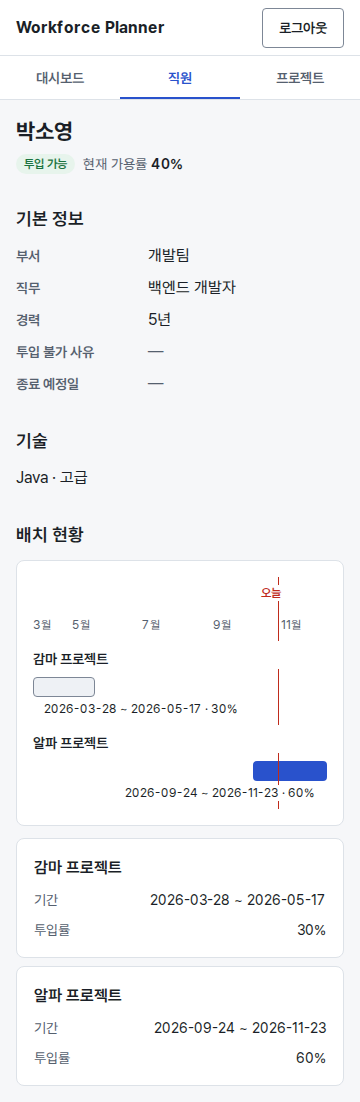
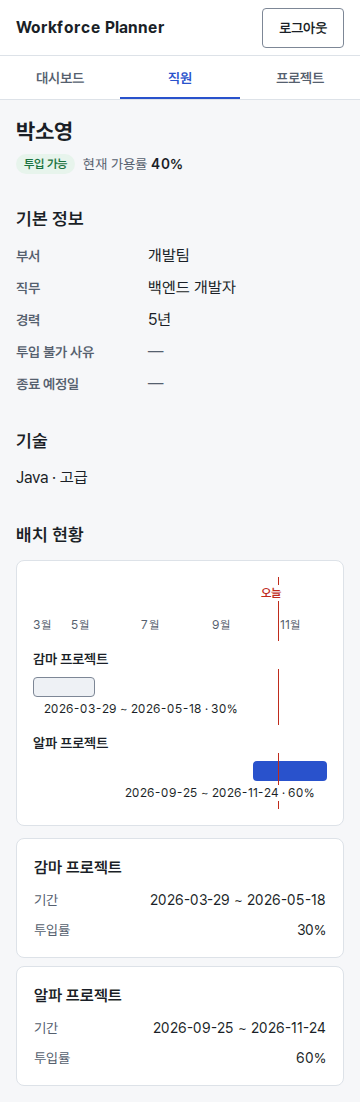
docs(T#19): evidence

diff --git a/docs/evidence/T19.md b/docs/evidence/T19.md
@@ -1,7 +1,7 @@
 # T#19 증거 — §10 시연 흐름 E2E 검증
 
-- snapshot: `d17c506f20811dfdbf6ef67da430c5700cb36367` (`t19`: 구현 커밋 `1d373f6` + `origin/main` `f29b7ab` 병합, 충돌 없음)
-- base: `f29b7abbe60c6d6b34b33693580a35deab4bf6f2` (`origin/main`, T#32 병합 뒤)
+- snapshot: `dc004d1720d55cfa11158f941aa7839276755331` (`t19`: 리뷰 REVISE 1의 수정 커밋 `dc004d1`, 그 앞에 `origin/main` `ee1500b` 병합 `b5c12b6`)
+- base: `ee1500bd43b183a896ec25132af0e688692ca7b1` (`origin/main`)
 - implemented by: Claude Code, claude-opus-5-5
 - 환경: Ubuntu 26.04 LTS (WSL2, Linux 6.18.33.2-microsoft-standard-WSL2), Node 24.21.0(nvm, `.nvmrc`), npm 11.19.0, OpenJDK
   21.0.12.1, Maven 3.10.0(`backend/mvnw`), perl 5.40.1, Playwright 1.64.0. kit: 8a06acc6982d
@@ -12,8 +12,12 @@
 계약서는 `origin/main` `5645d02`를 읽고 썼고, 레드도 그 위(`51bfc8a` = `5645d02` + 계약 커밋)에서 기록했다. 구현 커밋 `1d373f6` 뒤
 `main`에 T#32(`f29b7ab`, 프로젝트 목록의 `인력 부족` 열)가 들어와, `origin/main`을 `t19`에 병합했다(`d17c506`, 충돌 없음,
 `git show --cc d17c506`의 조정 diff 없음). T#32의 열은 목록 맨 끝에 붙어 흐름이 읽는 `배치 인원`(다섯째 칸)은 그대로이고, 흐름이 지나는
-다른 화면은 바뀌지 않았다. 그래서 새 base `f29b7ab`의 베이스라인을 다시 재고(아래), 그린은 모두 병합 뒤 `d17c506`에서 돌렸다.
-`git diff origin/main HEAD`는 계약이 정한 7파일뿐이다(`Makefile`, `README.md`, `docs/contracts/T19.md`,
+다른 화면은 바뀌지 않았다. 그래서 새 base `f29b7ab`의 베이스라인을 다시 쟀다(아래).
+
+리뷰(REVISE, reviewed `168c6cc`) 뒤 `main`에 `ee1500b`(`docs/requirements/REQUEST.md` 한 줄, #44)가 들어와 다시 병합했다(`b5c12b6`,
+충돌 없음). `git diff --stat f29b7ab ee1500b`는 `docs/requirements/REQUEST.md` 하나뿐이라 코드·검사·빌드가 같으므로 `f29b7ab`의
+베이스라인을 그대로 쓴다. 그린은 모두 수정 커밋 `dc004d1`에서 돌렸다. `git diff origin/main HEAD`는 계약이 정한 7파일과 이 태스크의
+문서(`docs/evidence/T19.md`, `docs/reviews/T19.md`, `docs/screens/T19/`)뿐이다(`Makefile`, `README.md`, `docs/contracts/T19.md`,
 `frontend/e2e/flow/demo-flow.spec.ts`, `frontend/e2e/screens/T19.spec.ts`, `frontend/package.json`, `frontend/playwright.config.ts`).
 
 ## 베이스라인 (작업 전, `t19` = `51bfc8a` = `origin/main` `5645d02` + 계약 커밋)
@@ -96,13 +100,34 @@ T#32가 더한 것: `e2e` +5개·+1파일(`projects-understaffed.spec.ts`), `e2e
   3 passed (8.4s)
 ```
 
+## 리뷰 REVISE 1의 수정 — 배치 뒤 직원 목록 단언의 첫 실행 (기준 3)
+
+리뷰(2026-10-14, Codex, reviewed `168c6cc`)의 사유 1: 4단계 갱신이 직원 목록을 다시 열지 않아, 직원 목록이 배치 뒤에도 `40%`를
+보이는 회귀를 놓친다. 수정: `frontend/e2e/flow/demo-flow.spec.ts` 4단계에서 직원 상세 다음에 메뉴 "직원"을 누르고
+`expectEmployeeList(page, request, width, SEED.parkAfterAssign)`로 화면의 박소영 `10%`와 그 순간 `GET /api/employees`의 `10`을
+확인한다(두 너비 모두, 같은 테스트 안).
+
+- 종류: 기준 3의 검사(흐름 1280px·360px)는 `new`이고 그 레드는 위 레드 1이다(그대로 둔다). 더한 단언은 처음 실행부터 통과했다:
+  `regression` 베이스라인. 직원 목록은 메뉴로 열 때마다 서버에 다시 묻는다 — base `origin/main` `ee1500b`의
+  `frontend/src/pages/EmployeeListPage.tsx:152-155`(마운트 때 `fetchEmployees('/api/employees', …)`)와 `:65-68`(가용률 열
+  `${employee.currentAvailability}%`). T#19는 앱 코드를 바꾸지 않는다(`git diff --quiet origin/main HEAD -- backend frontend/src` 통과).
+- 베이스라인 실행: 2026-10-15 09:23, `t19` `b5c12b6`(= `2a3c1e0` 리뷰 기록 + `origin/main` `ee1500b` 병합) 위 작업 트리에 이 단언만 더한 상태.
+  명령 `bash scripts/e2e-servers.sh --fresh-db -- npm --prefix frontend run e2e:flow`, 종료 코드 0.
+
+```
+  ✓  1 [e2e-flow] › e2e/flow/demo-flow.spec.ts:214:1 › 새 DB와 시드에서 시작한다 (213ms)
+  ✓  2 [e2e-flow] › e2e/flow/demo-flow.spec.ts:227:3 › §10 흐름 1280px (3.2s)
+  ✓  3 [e2e-flow] › e2e/flow/demo-flow.spec.ts:227:3 › §10 흐름 360px (3.3s)
+  3 passed (7.7s)
+```
+
 ## 수용 기준과 검사
 
 | 기준 | 검사 | 종류 | 레드 | 마지막 변경 뒤 |
 |---|---|---|---|---|
 | 1 새 DB 단계 | `demo-flow.spec.ts` `beforeAll`(`E2E_DB`), "새 DB와 시드에서 시작한다"; `playwright.config.ts` `e2e-flow`·`e2e`의 `'**/flow/**'`; `package.json` `e2e:flow`, `test:e2e` 세 번째 단계 | new | 레드 1 (exit 1, `E2E_DB=fresh 아님`) | `make test` 0, 단독 0 |
 | 2 조회와 선택 | 흐름 1–2단계, 두 너비 | new | 레드 1과 같음 | 통과 |
-| 3 배치와 세 화면 갱신 | 흐름 3–4단계, 두 너비 (`10%`가 직원 상세·대시보드·후보와 API에서 같음) | new | 레드 1과 같음 | 통과 |
+| 3 배치와 세 화면 갱신 | 흐름 3–4단계, 두 너비: `10%`가 직원 상세(`demo-flow.spec.ts:291`), 직원 목록(`:293`, REVISE 1로 더함), 대시보드(`:300`), 후보와 그 순간의 API에서 같음 | new (직원 목록 단언은 regression 베이스라인) | 레드 1과 같음; 직원 목록 단언은 위 "리뷰 REVISE 1의 수정" | 통과 |
 | 4 100% 초과와 투입 불가 차단 | 흐름 5–6단계, 두 너비 (투입률 아래 0–4px의 원인, 버튼 위 `role="alert"`, API 배치 그대로) | new | 레드 1과 같음 | 통과 |
 | 5 해제 후 복구 | 흐름 7단계, 두 너비 (모든 화면과 API가 1단계 값) | new | 레드 1과 같음 | 통과 |
 | 6 두 너비 | 두 테스트의 화면마다 `expectNoHorizontalOverflow(page, [W])`, 360px에서 "인력 배치"·후보·"배치"·"해제" `toBeVisible` 뒤 클릭 | new | 레드 1과 같음 | 통과 |
@@ -110,17 +135,17 @@ T#32가 더한 것: `e2e` +5개·+1파일(`projects-understaffed.spec.ts`), `e2e
 | 8 README | "검사"·"스크린샷"·"e2e 서버"·"검사 격리" 표 | 리뷰어 대조 | — | `README.md` 수정(`git diff origin/main HEAD -- README.md`) |
 | 9 회귀 | `make build`/`make test`/`make lint`, Playwright 합계, T#4 기준 11(b)·(c) | regression | 베이스라인 두 번 모두 0 | 모두 0, 아래 |
 
-## 그린 (마지막 변경 뒤, snapshot `d17c506`)
+## 그린 (마지막 변경 뒤, snapshot `dc004d1`)
 
-`git status --porcelain --untracked-files=all`은 실행 전 이 증거 파일 하나뿐이었다.
+`git status --porcelain --untracked-files=all`은 실행 전 이 증거 파일 하나뿐이었다(2026-10-15).
 
 | 명령 | 종료 코드 | 마지막 줄 |
 |---|---|---|
-| `make build` | 0 | `[INFO] BUILD SUCCESS`, `✓ built in 859ms` |
+| `make build` | 0 | `[INFO] BUILD SUCCESS`, `✓ built in 787ms` |
 | `make lint` | 0 | `[INFO] You have 0 Checkstyle violations.`, `eslint .` (출력 없음) |
 | `make test` | 0 | 아래 |
-| `bash scripts/e2e-servers.sh --fresh-db -- npm --prefix frontend run e2e:flow` | 0 | `3 passed (8.0s)` |
-| `make screenshots T=19` | 0 | `5 passed (5.5s)` |
+| `bash scripts/e2e-servers.sh --fresh-db -- npm --prefix frontend run e2e:flow` | 0 | `3 passed (8.7s)` |
+| `make screenshots T=19` | 0 | `5 passed (5.7s)` |
 
 `make test`:
 
@@ -130,31 +155,40 @@ T#32가 더한 것: `e2e` +5개·+1파일(`projects-understaffed.spec.ts`), `e2e
  Test Files  35 passed (35)
       Tests  344 passed (344)
 > bash ../scripts/e2e-servers.sh -- npm run e2e:run && bash ../scripts/e2e-servers.sh --fresh-db -- npm run e2e:write && bash ../scripts/e2e-servers.sh --fresh-db -- npm run e2e:flow
-  137 passed (2.9m)
-  15 passed (26.7s)
-  ✓  1 [e2e-flow] › e2e/flow/demo-flow.spec.ts:214:1 › 새 DB와 시드에서 시작한다 (272ms)
-  ✓  2 [e2e-flow] › e2e/flow/demo-flow.spec.ts:227:3 › §10 흐름 1280px (3.6s)
-  ✓  3 [e2e-flow] › e2e/flow/demo-flow.spec.ts:227:3 › §10 흐름 360px (3.3s)
-  3 passed (8.2s)
+  137 passed (3.0m)
+  15 passed (30.0s)
+  ✓  1 [e2e-flow] › e2e/flow/demo-flow.spec.ts:214:1 › 새 DB와 시드에서 시작한다 (252ms)
+  ✓  2 [e2e-flow] › e2e/flow/demo-flow.spec.ts:227:3 › §10 흐름 1280px (3.3s)
+  ✓  3 [e2e-flow] › e2e/flow/demo-flow.spec.ts:227:3 › §10 흐름 360px (3.0s)
+  3 passed (7.5s)
+```
+
+`bash scripts/e2e-servers.sh --fresh-db -- npm --prefix frontend run e2e:flow`:
+
+```
+  ✓  1 [e2e-flow] › e2e/flow/demo-flow.spec.ts:214:1 › 새 DB와 시드에서 시작한다 (314ms)
+  ✓  2 [e2e-flow] › e2e/flow/demo-flow.spec.ts:227:3 › §10 흐름 1280px (3.9s)
+  ✓  3 [e2e-flow] › e2e/flow/demo-flow.spec.ts:227:3 › §10 흐름 360px (3.2s)
+  3 passed (8.7s)
 ```
 
 `make screenshots T=19`:
 
 ```
-  ✓  1 [screens] › e2e/screens/T19.spec.ts:67:3 › before-1280 (1.2s)
-  ✓  2 [screens] › e2e/screens/T19.spec.ts:67:3 › before-360 (856ms)
-  ✓  3 [screens] › e2e/screens/T19.spec.ts:75:1 › assign 박소영 to the beta project, 30% (644ms)
-  ✓  4 [screens] › e2e/screens/T19.spec.ts:97:3 › after-1280 (933ms)
-  ✓  5 [screens] › e2e/screens/T19.spec.ts:97:3 › after-360 (884ms)
-  5 passed (5.5s)
+  ✓  1 [screens] › e2e/screens/T19.spec.ts:67:3 › before-1280 (1.1s)
+  ✓  2 [screens] › e2e/screens/T19.spec.ts:67:3 › before-360 (902ms)
+  ✓  3 [screens] › e2e/screens/T19.spec.ts:75:1 › assign 박소영 to the beta project, 30% (701ms)
+  ✓  4 [screens] › e2e/screens/T19.spec.ts:97:3 › after-1280 (978ms)
+  ✓  5 [screens] › e2e/screens/T19.spec.ts:97:3 › after-360 (859ms)
+  5 passed (5.7s)
 ```
 
 기준 7의 정리 확인 (`make screenshots T=19` 바로 뒤):
 
 ```
-.nexi-tmp/e2e-servers.pids: 1085367 1085368
-kill -0 -- -1085367: failed (gone)    ps -g 1085367 lines: 0
-kill -0 -- -1085368: failed (gone)    ps -g 1085368 lines: 0
+.nexi-tmp/e2e-servers.pids: 24245 24246
+kill -0 -- -24245: failed (gone)    ps -g 24245 lines: 0
+kill -0 -- -24246: failed (gone)    ps -g 24246 lines: 0
 curl http://localhost:18080/api/auth/me → exit 7 (응답 없음)
 curl http://localhost:14173/           → exit 7 (응답 없음)
 .nexi-tmp/e2e-write.db, -journal, -wal, -shm: 없음
@@ -162,13 +196,13 @@ curl http://localhost:14173/           → exit 7 (응답 없음)
 
 ### 기준 9 회귀
 
-- Playwright 합계 (`npx playwright test --list --project=<P>`, `d17c506`): `e2e` `137 tests in 12 files`, `e2e-write` `15 tests in 4 files`
-  — 새 베이스라인 `f29b7ab`와 같다. `screens` `75 tests in 13 files` — `f29b7ab`의 70·12에 `screens/T19.spec.ts`의 5개
-  (`before-1280`, `before-360`, `assign 박소영 to the beta project, 30%`, `after-1280`, `after-360`)·1파일만 더해졌다. `e2e-flow`
+- Playwright 합계 (`frontend`에서 `npx playwright test --list --project=<P>`, `dc004d1`): `e2e` `137 tests in 12 files`, `e2e-write`
+  `15 tests in 4 files` — 베이스라인 `f29b7ab`와 같다. `screens` `75 tests in 13 files` — `f29b7ab`의 70·12에 `screens/T19.spec.ts`의
+  5개(`before-1280`, `before-360`, `assign 박소영 to the beta project, 30%`, `after-1280`, `after-360`)·1파일만 더해졌다. `e2e-flow`
   `3 tests in 1 file`.
-- 기존 스펙과 스크립트는 그대로다: `git diff --quiet origin/main HEAD -- scripts/e2e-servers.sh frontend/e2e/write frontend/e2e/*.spec.ts backend`
+- 기존 스펙과 스크립트는 그대로다: `git diff --quiet origin/main HEAD -- scripts/e2e-servers.sh frontend/e2e/write frontend/e2e/*.spec.ts backend frontend/src`
   통과. T#6 `AuthorizationPolicyTest`는 백엔드 227개 안에서, T#17·T#34·T#39·T#32의 `write/` 스펙은 `e2e-write` 15개 안에서 통과.
-- T#4 기준 11(b)·(c):
+- T#4 기준 11(b)·(c) (`dc004d1`):
 
 ```
 $ make screenshots; echo $?
@@ -190,17 +224,19 @@ make: *** [Makefile:19: screenshots] Error 1
 
 ## 스크린샷
 
-`make screenshots T=19`, snapshot `d17c506`에서 찍음. `docs/screens/T19/`:
+`make screenshots T=19`, snapshot `dc004d1`에서 2026-10-15에 다시 찍음(시드 날짜 `T` = 2026-10-15). `docs/screens/T19/`:
 
 - `before-dashboard-1280.png`, `before-dashboard-360.png` — 박소영 `40%`, 개발팀 `70.6%`
 - `before-employee-1280.png`, `before-employee-360.png` — 박소영 현재 가용률 `40%`, 배치 현황에 감마·알파
 - `before-project-1280.png`, `before-project-360.png` — 베타 "필요 2명 / 배치 3명", 배치 인력 3행
-- `after-dashboard-1280.png`, `after-dashboard-360.png` — 박소영 `10%`
-- `after-employee-1280.png`, `after-employee-360.png` — 박소영 `10%`, 배치 현황에 베타 `2026-10-14 ~ 2026-11-13` `30%`와 겹침 `90%`
+- `after-dashboard-1280.png`, `after-dashboard-360.png` — 박소영 `10%`, 개발팀 `66.9%`
+- `after-employee-1280.png`, `after-employee-360.png` — 박소영 `10%`, 배치 현황에 베타 `2026-10-15 ~ 2026-11-14` `30%`와 겹침 `90%`
 - `after-project-1280.png`, `after-project-360.png` — 베타 "필요 2명 / 배치 4명", 박소영 행 `30%`
 
-앞선 태스크의 PNG는 다시 찍지 않았다(계약 "하지 않을 일"). `Makefile`의 `--fresh-db`가 앞선 태스크의 스크린샷 명령을 깨지 않는지는
-작업 폴더의 PNG를 덮어쓰지 않도록 작업 트리 밖 임시 클론(`d17c506`, 수정 없음)에서 태스크마다 확인했다:
+대시보드 4장은 날짜가 없어 바이트까지 앞 실행과 같고, 나머지 8장은 시드 날짜(하루 뒤)만 바뀌었다. 앞선 태스크의 PNG는 다시 찍지
+않았다(계약 "하지 않을 일"). `Makefile`의 `--fresh-db`가 앞선 태스크의 스크린샷 명령을 깨지 않는지는 작업 폴더의 PNG를 덮어쓰지
+않도록 작업 트리 밖 임시 클론(`d17c506`, 수정 없음)에서 태스크마다 확인했다. 그 뒤 스크린샷 명령에 닿는 파일은 바뀌지 않았다
+(`git diff --quiet d17c506 HEAD -- Makefile frontend/e2e/screens frontend/playwright.config.ts frontend/package.json scripts` 통과):
 
 ```
 make screenshots T=4 exit=0 |   2 passed (2.0s)
